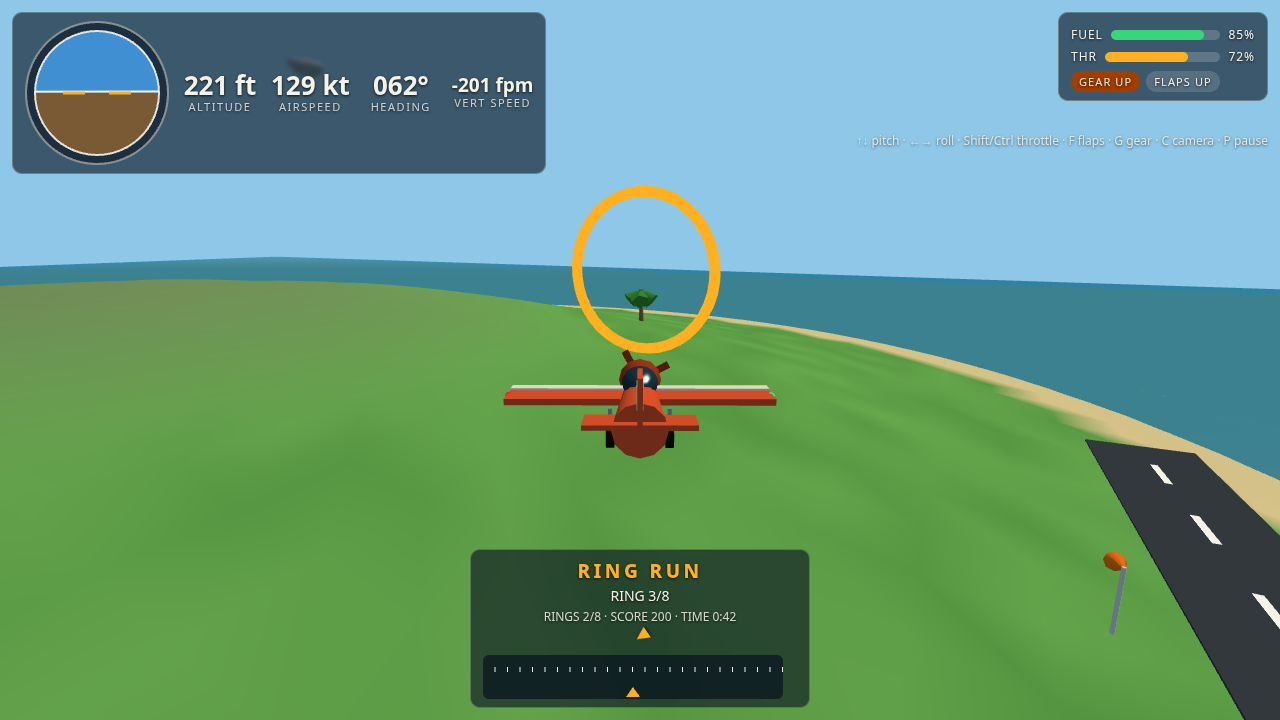
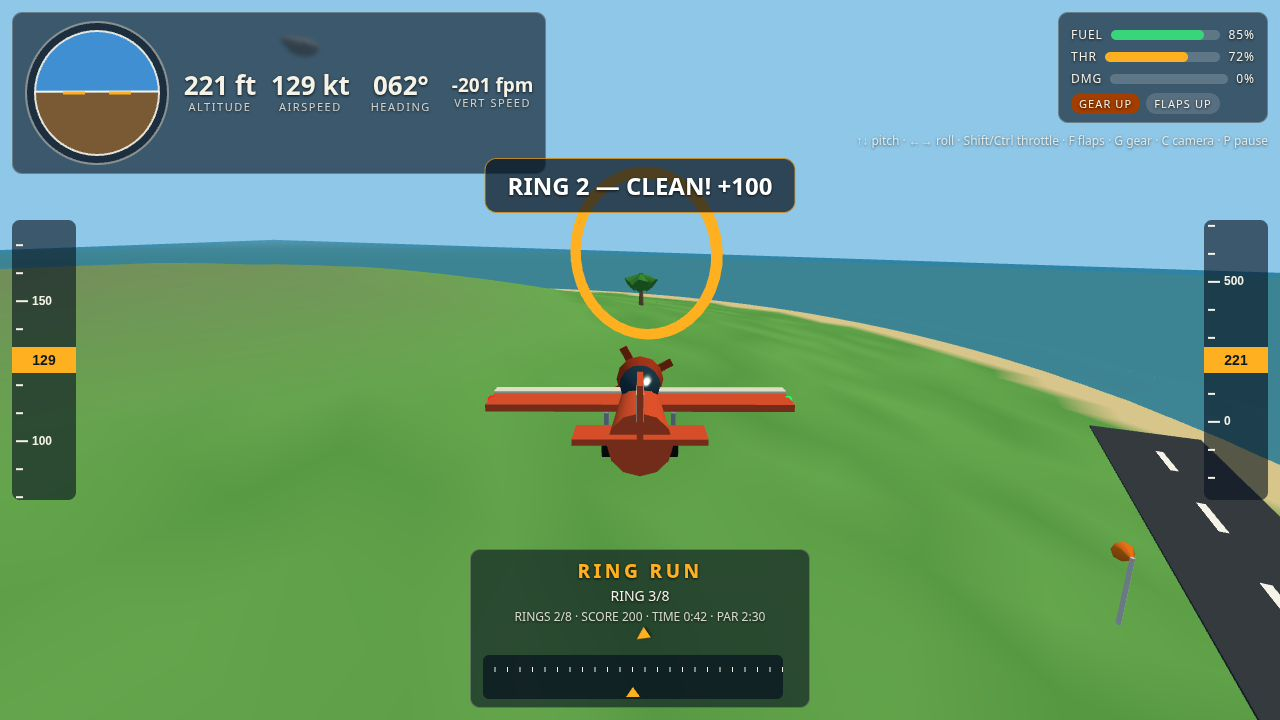
v2: richer instruments, visible storm, cockpit landing, par + best scores
- Airspeed/altitude tapes on the screen edges, damage bar, par time on
  the HUD and under/over-par + best score on the debrief.
- Storm Run now flies through visible rain under a grey squall sky.
- Cockpit camera hides the airframe and sits over the nose; the landing
  screenshot is a true cockpit approach.
- Ring toasts name the score (RING 2 — CLEAN! +100); touchdowns get a
  landing rating (BUTTERY/SMOOTH/FIRM/HARD) from the softness bonus.
- Chase camera closer in; brighter hemisphere light.

diff --git a/game/src/main.js b/game/src/main.js
@@ -77,12 +77,51 @@ function showScreen(id) {
   if (id) document.getElementById(id).classList.remove('hidden');
 }
 
+/** Best score per sortie, kept on this machine so a return flight has
+ * something to beat. */
+function bestFor(kind) {
+  try {
+    return Number(localStorage.getItem(`kestrel-best-${kind}`) ?? 0) || 0;
+  } catch {
+    return 0;
+  }
+}
+function recordBest(kind, score) {
+  const best = Math.max(bestFor(kind), score);
+  try {
+    localStorage.setItem(`kestrel-best-${kind}`, String(best));
+  } catch {
+    // Private mode or no storage: the run still counts, just not kept.
+  }
+  return best;
+}
+
+function fmtClock(seconds) {
+  const s = Math.max(0, Math.round(seconds));
+  return `${Math.floor(s / 60)}:${String(s % 60).padStart(2, '0')}`;
+}
+
+/** The debrief line: score, time against the par, fuel left, best ever. */
+function winStatsText() {
+  const best = recordBest(mission.kind, mission.score);
+  const parts = [
+    `Score ${mission.score}`,
+    `Time ${fmtClock(mission.elapsed)}`,
+    `Fuel ${Math.round(flight.state.fuel)}% left`,
+    `Best ${best}`,
+  ];
+  if (mission.timePar) {
+    const diff = mission.timePar - mission.elapsed;
+    parts.push(diff >= 0 ? `Under par by ${fmtClock(diff)}` : `Over par by ${fmtClock(-diff)}`);
+  }
+  return parts.join('  ·  ');
+}
+
 function endRun(win) {
   if (win) {
     screen = SCREEN_WIN;
     document.getElementById('win-title').textContent = `${mission.name} COMPLETE`;
-    document.getElementById('win-stats').textContent =
-      `Score ${mission.score}  ·  Time ${Math.floor(mission.elapsed / 60)}:${String(Math.floor(mission.elapsed % 60)).padStart(2, '0')}  ·  Fuel ${Math.round(flight.state.fuel)}% left`;
+    document.getElementById('win-stats').textContent = winStatsText();
     showScreen('screen-win');
     announce(`${mission.name} complete. Score ${mission.score}.`);
     audio.fanfare();
@@ -114,17 +153,25 @@ function hudSnapshot() {
     vsMs: s.verticalSpeed,
     gear: s.gearDown,
     flaps: s.flaps,
+    damage: s.damage,
   };
 }
 
 function handleMissionEvent(event) {
   if (event === 'ring') {
     audio.ringChime();
-    toast(`RING ${mission.nextRing}/${mission.rings.length} — nice flying!`);
+    // nextRing already counts the ring just taken.
+    toast(`RING ${mission.nextRing} — CLEAN! +100`);
     renderer.setRings(mission.rings, mission.nextRing);
   } else if (event === 'landed') {
     audio.touchdown();
-    toast(`TOUCHDOWN on ${flight.state.landedStrip?.name ?? 'a strip'} — +score for a soft landing`);
+    const l = mission.lastLanding;
+    if (l) {
+      const rating = l.vs <= 1.5 ? 'BUTTERY' : l.vs <= 3 ? 'SMOOTH' : l.vs <= 5 ? 'FIRM' : 'HARD';
+      toast(`TOUCHDOWN ${l.strip} — ${rating} +${l.bonus}`);
+    } else {
+      toast(`TOUCHDOWN on ${flight.state.landedStrip?.name ?? 'a strip'} — +score for a soft landing`);
+    }
   } else if (event === 'complete') {
     endRun(true);
   } else if (event === 'fail') {
@@ -188,6 +235,7 @@ function paint(now) {
       rings: mission.rings,
       nextRing: mission.nextRing,
       showBeacon: mission.kind === MISSION_STORM && !mission.delivered,
+      raining: mission.kind === MISSION_STORM && !mission.delivered,
     },
   );
 }
@@ -202,8 +250,7 @@ function runShot(name) {
     // The win screen carries the result on its own; the HUD would collide
     // with its title, so it stays hidden for this shot.
     document.getElementById('win-title').textContent = `${mission.name} COMPLETE`;
-    document.getElementById('win-stats').textContent =
-      `Score ${mission.score}  ·  Time ${Math.floor(mission.elapsed / 60)}:${String(Math.floor(mission.elapsed % 60)).padStart(2, '0')}  ·  Fuel ${Math.round(flight.state.fuel)}% left`;
+    document.getElementById('win-stats').textContent = winStatsText();
     showScreen('screen-win');
     document.getElementById('screen-win').classList.add('shot-top');
     document.getElementById('hud').classList.add('hidden');

diff --git a/game/src/render.js b/game/src/render.js
@@ -26,8 +26,37 @@ export function createRenderer(canvas) {
   sun.position.set(600, 900, 300);
   scene.add(sun);
   scene.add(new THREE.AmbientLight(0xbfd9ee, 0.9));
-  const hemi = new THREE.HemisphereLight(0xbfd9ee, 0x3d6b4a, 0.5);
+  const hemi = new THREE.HemisphereLight(0xbfd9ee, 0x3d6b4a, 0.65);
   scene.add(hemi);
+
+  // --- Squall rain for Storm Run: short streaks in a box that rides with
+  // the plane, so the storm is something you fly through, not just wind. ---
+  const RAIN_DROPS = 700;
+  const RAIN_BOX = { x: 260, y: 170, z: 260 };
+  const rainPos = new Float32Array(RAIN_DROPS * 2 * 3);
+  const rainSpeed = new Float32Array(RAIN_DROPS);
+  for (let i = 0; i < RAIN_DROPS; i++) {
+    rainPos[i * 6] = (Math.random() - 0.5) * RAIN_BOX.x;
+    rainPos[i * 6 + 1] = (Math.random() - 0.5) * RAIN_BOX.y;
+    rainPos[i * 6 + 2] = (Math.random() - 0.5) * RAIN_BOX.z;
+    rainPos[i * 6 + 3] = rainPos[i * 6];
+    rainPos[i * 6 + 4] = rainPos[i * 6 + 1] - 2.5;
+    rainPos[i * 6 + 5] = rainPos[i * 6 + 2];
+    rainSpeed[i] = 55 + Math.random() * 35;
+  }
+  const rainGeo = new THREE.BufferGeometry();
+  rainGeo.setAttribute('position', new THREE.BufferAttribute(rainPos, 3));
+  const rain = new THREE.LineSegments(
+    rainGeo,
+    new THREE.LineBasicMaterial({ color: 0xd6e9ff, transparent: true, opacity: 0.5 }),
+  );
+  rain.visible = false;
+  rain.frustumCulled = false;
+  scene.add(rain);
+  const skyClear = new THREE.Color(0x8fc7e8);
+  const skyStorm = new THREE.Color(0x5d7488);
+  const fogClear = new THREE.Fog(0xa8cfe8, 900, 3200);
+  const fogStorm = new THREE.Fog(0x7e93a6, 500, 2200);
 
   const terrain = buildTerrain(scene);
   const aircraft = buildAircraft();
@@ -76,10 +105,13 @@ export function createRenderer(canvas) {
   /**
    * Paint one frame.
    * snap: flight state snapshot {pos, heading, pitch, roll, speed, throttle, onGround}
-   * opts: {mode: 'chase'|'cockpit', time, rings, nextRing, showBeacon}
+   * opts: {mode: 'chase'|'cockpit', time, rings, nextRing, showBeacon, raining}
    */
   function draw(snap, opts) {
     const plane = aircraft.group;
+    // In the cockpit you are inside the plane: the model stays out of its
+    // own view, so the windscreen shows only the world ahead.
+    plane.visible = opts.mode !== 'cockpit';
     plane.position.copy(snap.pos);
     plane.rotation.order = 'YXZ';
     plane.rotation.y = snap.heading;
@@ -140,6 +172,35 @@ export function createRenderer(canvas) {
       mesh.rotation.z = Math.sin(t * 0.4 + i) * 0.08;
     });
     beacon.visible = !!opts.showBeacon;
+
+    // Squall: rain rides with the plane and the sky goes grey while the
+    // delivery is still outstanding; clear again once the medkit is down.
+    const raining = !!opts.raining;
+    rain.visible = raining;
+    if (raining) {
+      rain.position.copy(snap.pos);
+      const attr = rainGeo.attributes.position;
+      for (let i = 0; i < RAIN_DROPS; i++) {
+        let y = attr.array[i * 6 + 1] - rainSpeed[i] * realDt;
+        if (y < -RAIN_BOX.y / 2) {
+          y += RAIN_BOX.y;
+          attr.array[i * 6] = (Math.random() - 0.5) * RAIN_BOX.x;
+          attr.array[i * 6 + 2] = (Math.random() - 0.5) * RAIN_BOX.z;
+        }
+        attr.array[i * 6 + 1] = y;
+        attr.array[i * 6 + 4] = y - 2.5;
+        attr.array[i * 6 + 3] = attr.array[i * 6];
+        attr.array[i * 6 + 5] = attr.array[i * 6 + 2];
+      }
+      attr.needsUpdate = true;
+      scene.background = skyStorm;
+      scene.fog = fogStorm;
+      hemi.intensity = 0.35;
+    } else {
+      scene.background = skyClear;
+      scene.fog = fogClear;
+      hemi.intensity = 0.65;
+    }
 
     stepClouds(terrain.clouds, realDt);
     renderer.render(scene, camera);

diff --git a/game/src/hud.js b/game/src/hud.js
@@ -42,6 +42,41 @@ function drawCompass(canvas, headingDeg) {
   ctx.fill();
 }
 
+/**
+ * Vertical tape: a sliding scale with the current value boxed in amber at
+ * the centre line. value/step/halfWindow in the tape's own units.
+ */
+function drawTape(canvas, value, step, halfWindow) {
+  const ctx = canvas.getContext('2d');
+  const w = canvas.width;
+  const h = canvas.height;
+  const cy = h / 2;
+  const pxPerUnit = h / (halfWindow * 2);
+  ctx.clearRect(0, 0, w, h);
+  ctx.fillStyle = 'rgba(8, 20, 32, 0.62)';
+  ctx.fillRect(0, 0, w, h);
+  ctx.textBaseline = 'middle';
+  const first = Math.ceil((value - halfWindow) / step) * step;
+  for (let v = first; v <= value + halfWindow; v += step) {
+    const y = cy - (v - value) * pxPerUnit;
+    const major = v % (step * 5) === 0;
+    ctx.fillStyle = '#f5f2e8';
+    ctx.fillRect(4, y - 1, major ? 12 : 7, 2);
+    if (major && v >= 0) {
+      ctx.font = 'bold 12px sans-serif';
+      ctx.textAlign = 'left';
+      ctx.fillText(String(v), 20, y);
+    }
+  }
+  // Current value, boxed.
+  ctx.fillStyle = '#ffb020';
+  ctx.fillRect(0, cy - 13, w, 26);
+  ctx.fillStyle = '#101820';
+  ctx.font = 'bold 14px sans-serif';
+  ctx.textAlign = 'center';
+  ctx.fillText(String(Math.max(0, Math.round(value))), w / 2, cy + 1);
+}
+
 /** Artificial horizon: sky/ground split rotated by roll, shifted by pitch. */
 function drawHorizon(canvas, pitch, roll) {
   const ctx = canvas.getContext('2d');
@@ -99,6 +134,8 @@ export function updateHud(snap, mission, objective) {
   el('hud-vs').textContent = `${snap.vsMs >= 0 ? '+' : ''}${(snap.vsMs * HUD.feetPerM * 60).toFixed(0)} fpm`;
   drawCompass(el('hud-compass'), snap.headingDeg);
   drawHorizon(el('hud-horizon'), snap.pitch, snap.roll);
+  drawTape(el('hud-tape-spd'), speedKt, 10, 50);
+  drawTape(el('hud-tape-alt'), altFt, 100, 500);
 
   const fuelBar = el('hud-fuel-fill');
   fuelBar.style.width = `${Math.max(0, snap.fuel)}%`;
@@ -111,6 +148,9 @@ export function updateHud(snap, mission, objective) {
   el('hud-gear').className = snap.gear ? 'pill ok' : 'pill warn';
   el('hud-flaps').textContent = snap.flaps ? 'FLAPS' : 'FLAPS UP';
   el('hud-flaps').className = snap.flaps ? 'pill ok' : 'pill';
+  const dmg = Math.max(0, Math.min(100, Math.round(snap.damage ?? 0)));
+  el('hud-dmg-fill').style.width = `${dmg}%`;
+  el('hud-dmg-num').textContent = `${dmg}%`;
 
   if (mission) {
     el('hud-mission').textContent = mission.name;
@@ -131,6 +171,9 @@ export function updateHud(snap, mission, objective) {
     if (mission.kind === 2) parts.push(`STRIPS ${mission.stripsLanded.length}/3`);
     parts.push(`SCORE ${mission.score}`);
     parts.push(`TIME ${Math.floor(mission.elapsed / 60)}:${String(Math.floor(mission.elapsed % 60)).padStart(2, '0')}`);
+    if (mission.timePar) {
+      parts.push(`PAR ${Math.floor(mission.timePar / 60)}:${String(mission.timePar % 60).padStart(2, '0')}`);
+    }
     el('hud-progress').textContent = parts.join('  ·  ');
   }
 }

diff --git a/game/index.html b/game/index.html
@@ -28,6 +28,11 @@
   .bar .fill { height: 100%; background: #37d67a; border-radius: 5px; transition: width .2s; }
   .bar .fill.low { background: #ff5030; }
   #hud-thr-fill { background: #ffb020; }
+  #hud-dmg-fill { background: #e5484d; }
+  /* Airspeed / altitude tapes: vertical scales at the screen edges, the
+     current value boxed in amber at the centre line. */
+  #hud-tape-spd { position: absolute; left: 12px; top: 50%; transform: translateY(-50%); border-radius: 8px; }
+  #hud-tape-alt { position: absolute; right: 12px; top: 50%; transform: translateY(-50%); border-radius: 8px; }
   .pills { display: flex; gap: 6px; margin-top: 6px; }
   .pill { font-size: 11px; letter-spacing: .1em; padding: 3px 8px; border-radius: 20px; background: rgba(255,255,255,.14); }
   .pill.ok { background: #1d7a44; }
@@ -108,8 +113,11 @@
     <div id="hud-topright" class="panel">
       <div class="bar-row"><span>FUEL</span><div class="bar"><div class="fill" id="hud-fuel-fill" style="width:100%"></div></div><span id="hud-fuel-num">100%</span></div>
       <div class="bar-row"><span>THR</span><div class="bar"><div class="fill" id="hud-thr-fill" style="width:0%"></div></div><span id="hud-thr-num">0%</span></div>
+      <div class="bar-row"><span>DMG</span><div class="bar"><div class="fill" id="hud-dmg-fill" style="width:0%"></div></div><span id="hud-dmg-num">0%</span></div>
       <div class="pills"><span class="pill ok" id="hud-gear">GEAR DOWN</span><span class="pill" id="hud-flaps">FLAPS UP</span></div>
     </div>
+    <canvas id="hud-tape-spd" width="64" height="280"></canvas>
+    <canvas id="hud-tape-alt" width="64" height="280"></canvas>
     <div id="hud-toast"></div>
     <div id="hud-help" class="panel">↑↓ pitch · ←→ roll · Shift/Ctrl throttle · F flaps · G gear · C camera · P pause</div>
   </div>

diff --git a/game/src/missions.js b/game/src/missions.js
@@ -1,6 +1,7 @@
 // missions.js — one job: the three sorties — what the pilot must do, how the
 // rings and strips are laid out, and how a run is scored.
 import * as THREE from 'three';
+import { MISSIONS } from './config.js';
 import { STRIPS, heightAt } from './terrain.js';
 
 export const MISSION_RINGS = 1;
@@ -34,9 +35,11 @@ export function stormTarget() {
 }
 
 export function createMission(kind) {
+  const brief = MISSIONS.find((m) => m.id === (kind === MISSION_RINGS ? 'rings' : kind === MISSION_HOP ? 'hop' : 'storm'));
   const mission = {
     kind,
     name: kind === MISSION_RINGS ? 'RING RUN' : kind === MISSION_HOP ? 'ISLAND HOP' : 'STORM RUN',
+    timePar: brief?.timePar ?? 0, // the time to beat; shown on the HUD, judged on the debrief
     startedAt: 0,
     elapsed: 0,
     rings: kind === MISSION_RINGS ? ringCourse() : [],
@@ -100,8 +103,12 @@ export function stepMission(mission, flightState, dt, events) {
       if (!mission.stripsLanded.includes(strip.name)) {
         mission.stripsLanded.push(strip.name);
         // Soft touchdown pays: slow vertical speed and low damage score best.
-        const softness = Math.max(0, 100 - Math.abs(flightState.verticalSpeed) * 12);
-        mission.score += 200 + Math.round(softness);
+        // Keep the rating on the mission so the HUD can name it.
+        const vs = Math.abs(flightState.verticalSpeed);
+        const softness = Math.max(0, 100 - vs * 12);
+        const bonus = 200 + Math.round(softness);
+        mission.score += bonus;
+        mission.lastLanding = { strip: strip.name, bonus, vs };
         if (mission.stripsLanded.length >= 3) {
           mission.done = true;
           mission.score += Math.max(0, Math.round(1200 - mission.elapsed * 4)) + Math.round(flightState.fuel * 5);

diff --git a/game/src/shots.js b/game/src/shots.js
@@ -4,6 +4,7 @@
 import * as THREE from 'three';
 import { MISSION_RINGS, MISSION_HOP, MISSION_STORM, createMission, stormWind } from './missions.js';
 import { STRIPS, heightAt, stripForward } from './terrain.js';
+import { toast } from './hud.js';
 
 const DT = 1 / 60;
 
@@ -99,6 +100,8 @@ export function stageShot(name, game) {
     startAirborne(flight, 700, 72, -150, -1.0, 50, 88);
     autopilot(flight, mission.rings[2].pos, 6.5, { throttle: 0.72, gear: false });
     mission.elapsed = 42;
+    // The second ring was just banked: hold its score callout on screen.
+    toast('RING 2 — CLEAN! +100', 30000);
     return { mission, cameraMode: 'chase', showBeacon: false, overlay: 'none' };
   }
   if (name === 'rings') {
@@ -142,7 +145,9 @@ export function stageShot(name, game) {
       stopWhen: (s) => s.onGround || s.pos.y < strip.altitude + 8,
     });
     mission.elapsed = 131;
-    return { mission, cameraMode: 'chase', showBeacon: false, overlay: 'none' };
+    // Cockpit view: the runway through the windscreen, tapes and horizon
+    // live — the same approach the pilot flies, not a replay angle.
+    return { mission, cameraMode: 'cockpit', showBeacon: false, overlay: 'none' };
   }
   if (name === 'debrief') {
     // Storm Run complete: parked on Far Isle's south beach facing the open

diff --git a/game/src/config.js b/game/src/config.js
@@ -26,10 +26,10 @@ export const PLANE = {
 };
 
 export const CAMERA = {
-  chaseDistance: 20,
+  chaseDistance: 17.5, // closer in: the Kestrel reads bigger in frame
   chaseHeight: 5.5,
   chaseLag: 10, // smoothing, higher = stiffer
-  cockpitOffset: { x: 0, y: 1.15, z: 1.6 },
+  cockpitOffset: { x: 0, y: 2.2, z: 0.2 }, // above the canopy, over the nose
 };
 
 export const MISSIONS = [

diff --git a/README.md b/README.md
@@ -38,7 +38,8 @@ Or open `game/index.html` from any static server. No network needed: every file 
 
 - A real flight model: lift needs airspeed (stall below 22 m/s and the nose drops), banking turns the heading, flaps trade speed for lift, fuel burns with throttle.
 - Damage that matters: hard landings bend the airframe; ditch in the lagoon or hit a hillside and the run is over.
-- A full instrument panel: altitude, airspeed, heading with a compass strip, artificial horizon, vertical speed, fuel and throttle — plus a next-objective readout.
+- A full instrument panel: airspeed and altitude tapes on the screen edges, altitude, airspeed, heading with a compass strip, artificial horizon, vertical speed, fuel, throttle and damage — plus a next-objective readout and a par time to beat on every sortie.
+- The storm is weather, not just wind: Storm Run flies through visible rain under a grey squall sky, and the cockpit camera puts you behind the windscreen for the landing (the airframe stays out of its own view).
 - Original everything: the archipelago, the Kestrel, the missions and all sounds (procedural WebAudio engine hum, wind, chimes) were made for this game. Three.js is vendored under `game/vendor/` under its MIT license.
 
 ---
